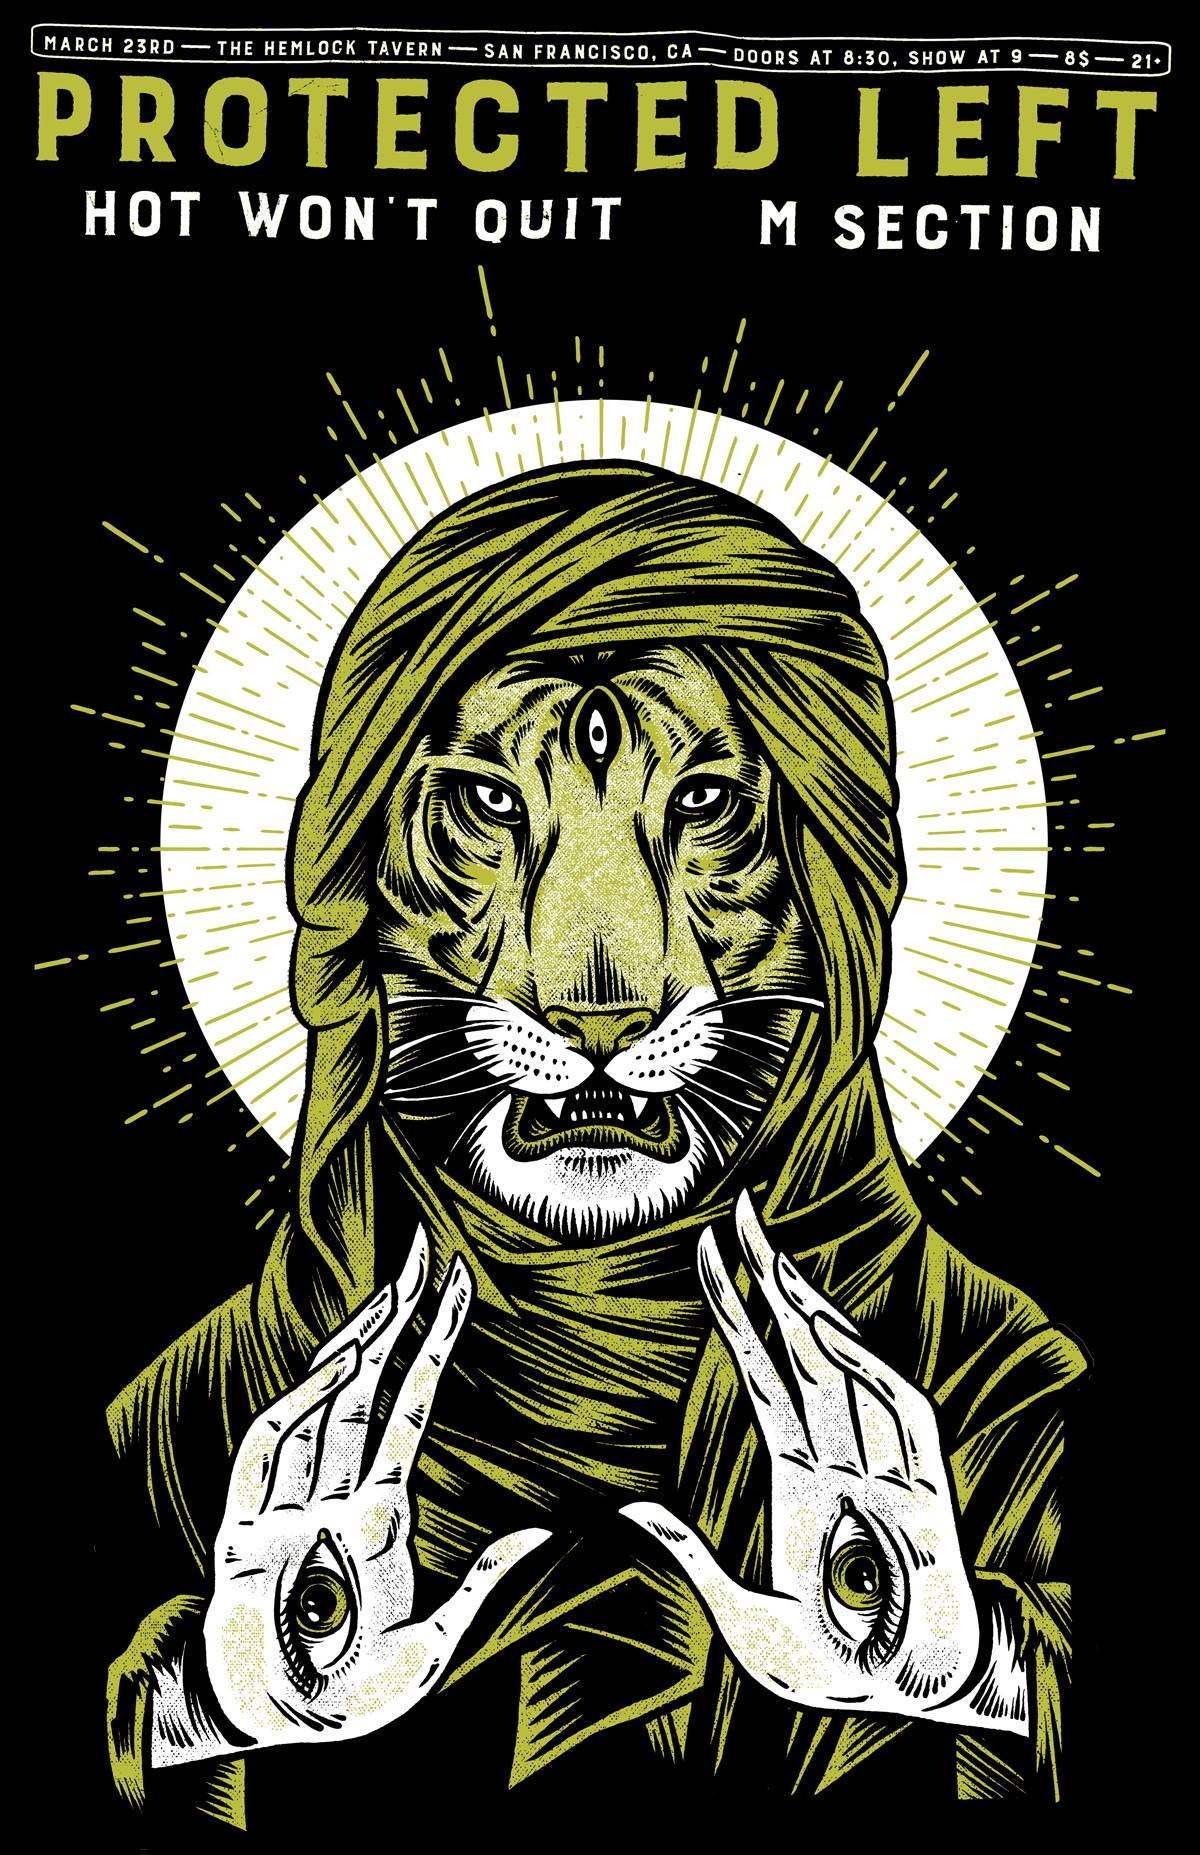
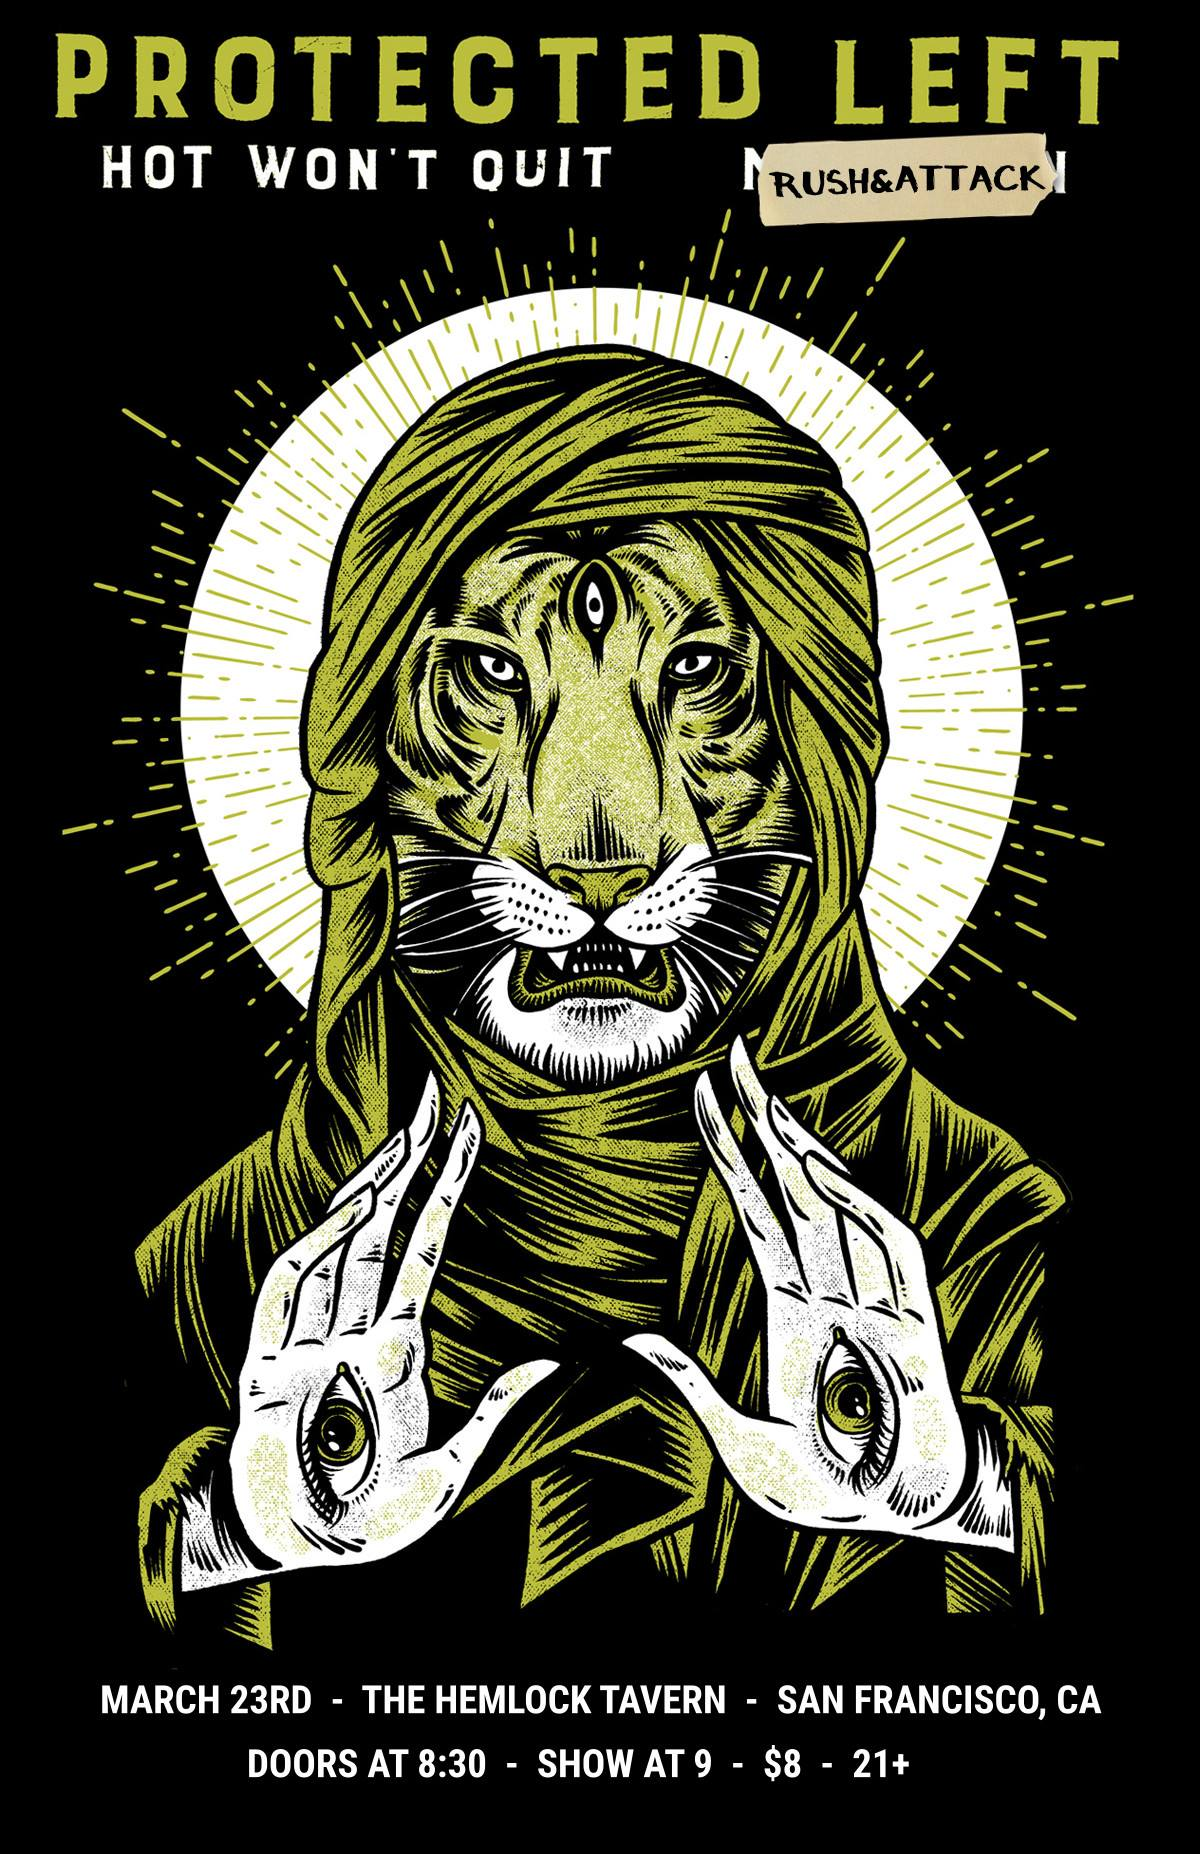
switches bands for sf show

diff --git a/_shows/2017-03-23-san-francisco-ca.html b/_shows/2017-03-23-san-francisco-ca.html
@@ -15,6 +15,6 @@ details: This is our first show with Protected Left and we hope it's just the be
 bands:
   - name: Protected Left
     link: http://protectedleft.org
-  - name: M Section
-    link: https://www.facebook.com/msectionband/
+  - name: Rush&amp;Attach
+    link: https://www.facebook.com/rushandattack
 ---
